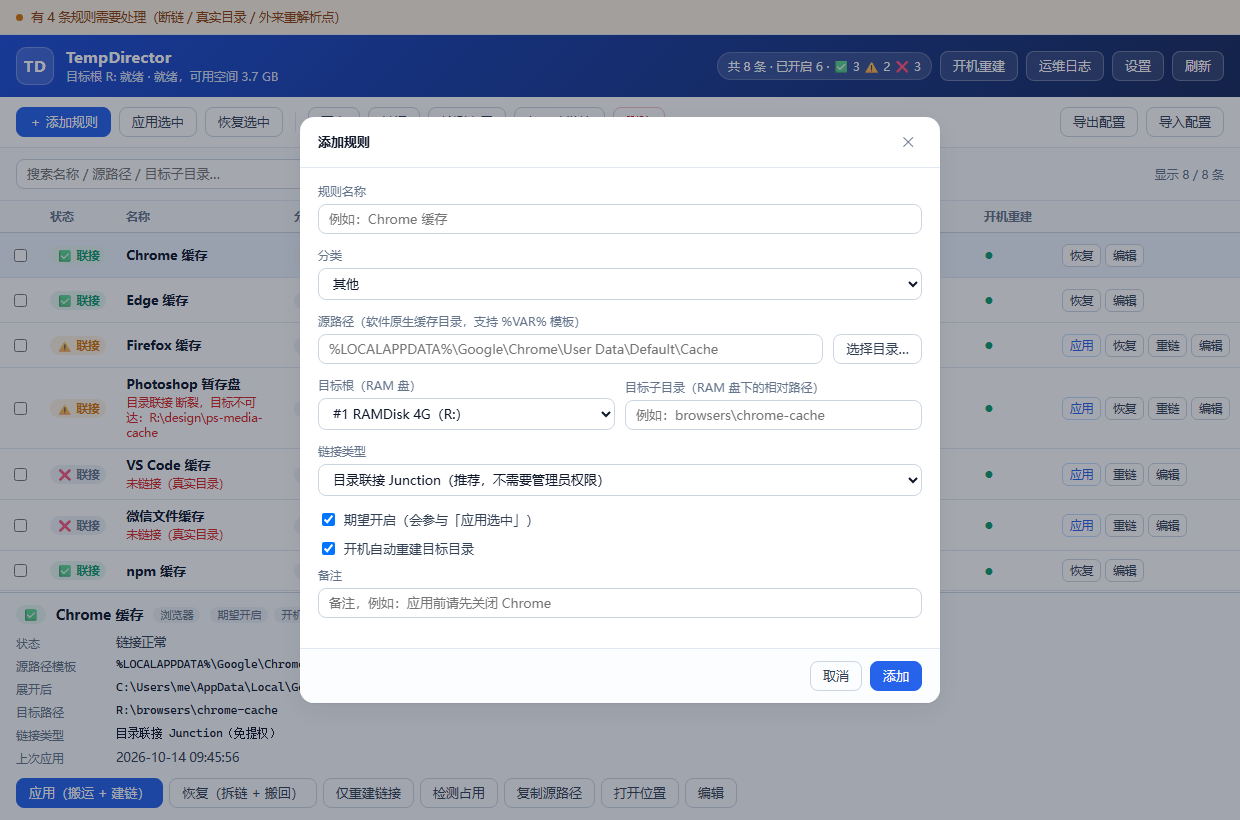
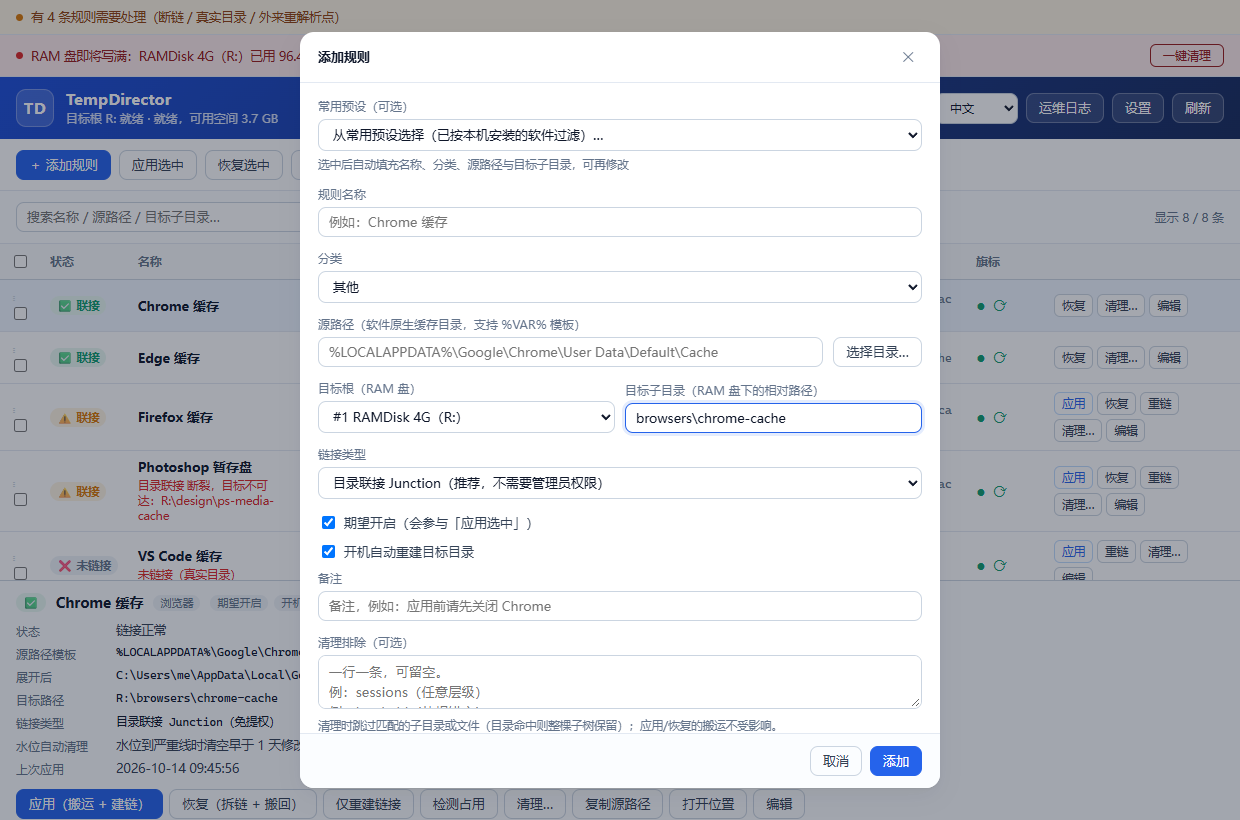
docs: 中文截图与英文版同源重刷，README 写入中英双套截图
- 用 scripts/take-screens.cjs 重刷中文四张（main-window / add-rule /
  settings / progress，settings 与 progress 为新增），与英文版同一 mock
  数据源、同一构图，中英成套。
- README「桌面界面」改为中英成对展示，补语言切换说明；「开发」与
  「目录结构」补截图工具用法。

diff --git a/README.md b/README.md
@@ -29,7 +29,14 @@ M3 把"登录时自动重建"接上，并让受保护路径的操作能按需提
 
 ## 桌面界面
 
+界面语言支持 **中文 / English**：右上角下拉切换，首次启动跟随系统语言（非中文系统默认英文），
+选择会记住。以下每张界面都给出中英两个版本。
+
+**主界面**（中文 / English）：
+
 ![主界面](docs/screenshots/main-window.png)
+
+![Main window](docs/screenshots/main-window-en.png)
 
 * **列表**：状态徽标（✅ 正常 / ⚠ 断链或目标空 / ❌ 未链接 / 🚫 外来重解析点）、
   需要处理的原因直接标在名称下方、源路径与目标路径并排、期望开关与开机重建两列指示灯。
@@ -43,7 +50,23 @@ M3 把"登录时自动重建"接上，并让受保护路径的操作能按需提
 * **运维日志**：事件时间线 + 操作流水两个标签页，含失败原因。
 * **托盘**：显示主窗口 / 立即执行开机重建 / 退出（关闭窗口即退出，常驻形态在 M3）。
 
+**添加规则**（中文 / English）：
+
 ![添加规则](docs/screenshots/add-rule.png)
+
+![Add rule](docs/screenshots/add-rule-en.png)
+
+**设置**（开机自启 / 定时清理 / 目标根管理；中文 / English）：
+
+![设置](docs/screenshots/settings.png)
+
+![Settings](docs/screenshots/settings-en.png)
+
+**批量应用进度浮层**（中文 / English）：
+
+![批量应用进度](docs/screenshots/progress.png)
+
+![Applying rules](docs/screenshots/progress-en.png)
 
 ### 构建与运行
 
@@ -272,9 +295,10 @@ crates/
     ui/                    index.html / style.css / app.js（静态文件，编译时内嵌）
     presets.json           内置预设清单（常用软件缓存目录，编译时内嵌）
 docs/ARCHITECTURE.md       架构与边界条件
-docs/screenshots/          界面截图
+docs/screenshots/          界面截图（中英各一套：main-window / add-rule / settings / progress）
 scripts/cargo.cmd          开发构建包装（自动补 MSVC + Rust 环境）
 scripts/make_icon.py       应用图标生成（纯 PIL 绘制，可重跑）
+scripts/take-screens.cjs   界面截图生成（mock 数据 + 无头浏览器，中英各一套，可重跑）
 rebuild.bat                一键全量重建（clean + release）并刷新桌面快捷方式
 ```
 
@@ -334,6 +358,15 @@ scripts\cargo.cmd build --release            # 两个 exe 一起出
 python scripts\make_icon.py                  # 需要改图标时重跑
 rebuild.bat                                  # 全量重建：clean + release + 刷新桌面快捷方式
 rebuild.bat noclean                          # 跳过 clean，只做增量 release 构建
+```
+
+重拍 README 用的界面截图（不启动 Tauri，mock 数据 + 无头浏览器，中英各一套）：
+
+```powershell
+# 依赖 playwright（npm i playwright），浏览器用系统已安装的 Edge / Chrome
+node scripts\take-screens.cjs --lang en     # 英文四张：main-window / add-rule / settings / progress
+node scripts\take-screens.cjs --lang zh     # 中文四张（覆盖既有截图）
+node scripts\take-screens.cjs --lang en --check   # 只扫漏翻（汉字 / 裸键名），不截图
 ```
 
 `rebuild.bat` 做的事：`cargo clean` → `cargo build --release` → 在校验产物存在后
